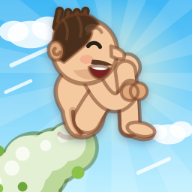
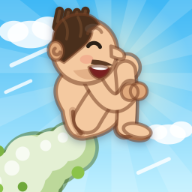
Close the gap between Kurt's butt and his tucked shins (#9)
Run the underside of the butt forward to meet the back of the calves and
pull both shins and feet back toward it, so no sky shows between the
butt and the hanging legs; the toes still point forward.

Clip the butt crack and cheek shading to the body outline, which removes
a stray shading arc that was poking out below the butt.

Icon PNGs regenerated.

Claude-Session: https://claude.ai/code/session_01Xv5vU6vvioL4J4ZmquSQUE

Changed region(s): [[0.2812, 0.5, 0.8125, 0.75], [0.7188, 0.4062, 0.75, 0.4375], [0.5938, 0.4375, 0.625, 0.4688]]

diff --git a/src/kurt.js b/src/kurt.js
@@ -266,21 +266,21 @@ export function drawKurt(ctx, kurt) {
 // Built straight from the reference photos: the body stays upright with
 // a rounded back, the knees are hugged up to chest height so they lead in
 // front of the chin, the shins hang almost straight down from the knees
-// so the feet dangle below the butt, toes forward, with sky showing between
-// the calves and the belly, and the near arm runs down the side of the thigh to a
+// so the feet dangle just in front of the butt, toes forward, with the
+// calves tucked right up against it, and the near arm runs down the side of the thigh to a
 // low elbow with the forearm crossing the shin just under the knee,
 // hands clasped on the shin.
 //
 // Readability over anatomy: every piece is its own fully outlined
 // capsule, layered back to front so each overlap draws a clean edge, and
-// the layout leaves real negative space (between shin and belly, between
-// chin and knee) so the silhouette alone says "tucked" at game size.
+// the layout leaves real negative space (between chin and knee, and
+// in front of the shins) so the silhouette alone says "tucked" at game size.
 //   far shin + far foot (shade) -> torso -> near thigh -> near shin ->
 //   near foot -> near arm -> clasped hands
 // Limbs are [startX, startY, controlX, controlY, endX, endY, width] in R.
 const NEAR_THIGH = [-0.24, 0.56, 0.18, 0.14, 0.7, -0.14, 0.42];
-const NEAR_SHIN = [0.66, -0.08, 0.6, 0.4, 0.47, 0.88, 0.3];
-const FAR_SHIN = [0.6, -0.06, 0.57, 0.42, 0.45, 0.9, 0.28];
+const NEAR_SHIN = [0.66, -0.08, 0.58, 0.42, 0.4, 0.88, 0.3];
+const FAR_SHIN = [0.6, -0.06, 0.54, 0.44, 0.36, 0.9, 0.28];
 const NEAR_ARM = [0.02, -0.3, 0.16, 0.76, 0.66, 0.26, 0.26];
 const LIMB_EDGE = 3.2;
 
@@ -290,7 +290,7 @@ function drawTuckBody(ctx, R, wiggle) {
   // far leg, in shade: a second shin and foot pressed close behind the
   // near leg, so the tuck clearly has both legs hugged up together
   drawLimb(ctx, R, FAR_SHIN, SKIN_SHADE);
-  drawFoot(ctx, R, 0.6, 1.04, 0.5, SKIN_SHADE);
+  drawFoot(ctx, R, 0.52, 1.04, 0.5, SKIN_SHADE);
 
   torsoPath(ctx, R);
   ctx.fillStyle = SKIN;
@@ -303,7 +303,7 @@ function drawTuckBody(ctx, R, wiggle) {
   // near leg: thigh hugged up to the chest, shin hanging from the knee
   drawLimb(ctx, R, NEAR_THIGH, SKIN);
   drawLimb(ctx, R, NEAR_SHIN, SKIN);
-  drawFoot(ctx, R, 0.64, 1.0, 0.5, SKIN);
+  drawFoot(ctx, R, 0.57, 1.0, 0.5, SKIN);
 
   // near arm: down the side of the thigh to a low elbow, then the forearm
   // reaches up and forward to grip the shin just below the knee
@@ -313,14 +313,15 @@ function drawTuckBody(ctx, R, wiggle) {
 
 function torsoPath(ctx, R) {
   // an upright bean: tall rounded back from the shoulders down to a round
-  // butt, a narrow belly so the hanging shins clear it
+  // butt whose underside runs forward to meet the back of the calves, so
+  // no sky shows between the butt and the hanging shins
   ctx.beginPath();
   ctx.moveTo(R * 0.2, -R * 0.42);
   ctx.quadraticCurveTo(R * 0.02, -R * 0.5, -R * 0.14, -R * 0.46);
   ctx.quadraticCurveTo(-R * 0.8, -R * 0.3, -R * 0.62, R * 0.3);
-  ctx.quadraticCurveTo(-R * 0.7, R * 0.86, -R * 0.3, R * 0.86);
-  ctx.quadraticCurveTo(-R * 0.04, R * 0.84, R * 0.06, R * 0.6);
-  ctx.quadraticCurveTo(R * 0.3, R * 0.2, R * 0.38, -R * 0.24);
+  ctx.quadraticCurveTo(-R * 0.7, R * 0.88, -R * 0.3, R * 0.88);
+  ctx.quadraticCurveTo(R * 0.1, R * 0.92, R * 0.32, R * 0.72);
+  ctx.quadraticCurveTo(R * 0.44, R * 0.24, R * 0.38, -R * 0.24);
   ctx.quadraticCurveTo(R * 0.36, -R * 0.42, R * 0.2, -R * 0.42);
   ctx.closePath();
 }
@@ -331,6 +332,11 @@ function drawButtCrack(ctx, R, wiggle) {
   // very slightly at the bottom where the gas comes out; plus a soft
   // shade under the cheek so the butt reads as round. Nothing more.
   const cx = -R * 0.5 + wiggle;
+  // keep every stroke inside the body outline so nothing pokes out past
+  // the edge of the butt
+  ctx.save();
+  torsoPath(ctx, R);
+  ctx.clip();
   ctx.lineCap = "round";
   ctx.strokeStyle = "rgba(140,80,50,0.28)";
   ctx.lineWidth = 3.4;
@@ -350,6 +356,7 @@ function drawButtCrack(ctx, R, wiggle) {
   ctx.beginPath();
   ctx.arc(cx - R * 0.08, R * 0.5, R * 0.3, Math.PI * 0.35, Math.PI * 0.8);
   ctx.stroke();
+  ctx.restore();
 }
 
 function drawClaspedHands(ctx, R, cx, cy) {
